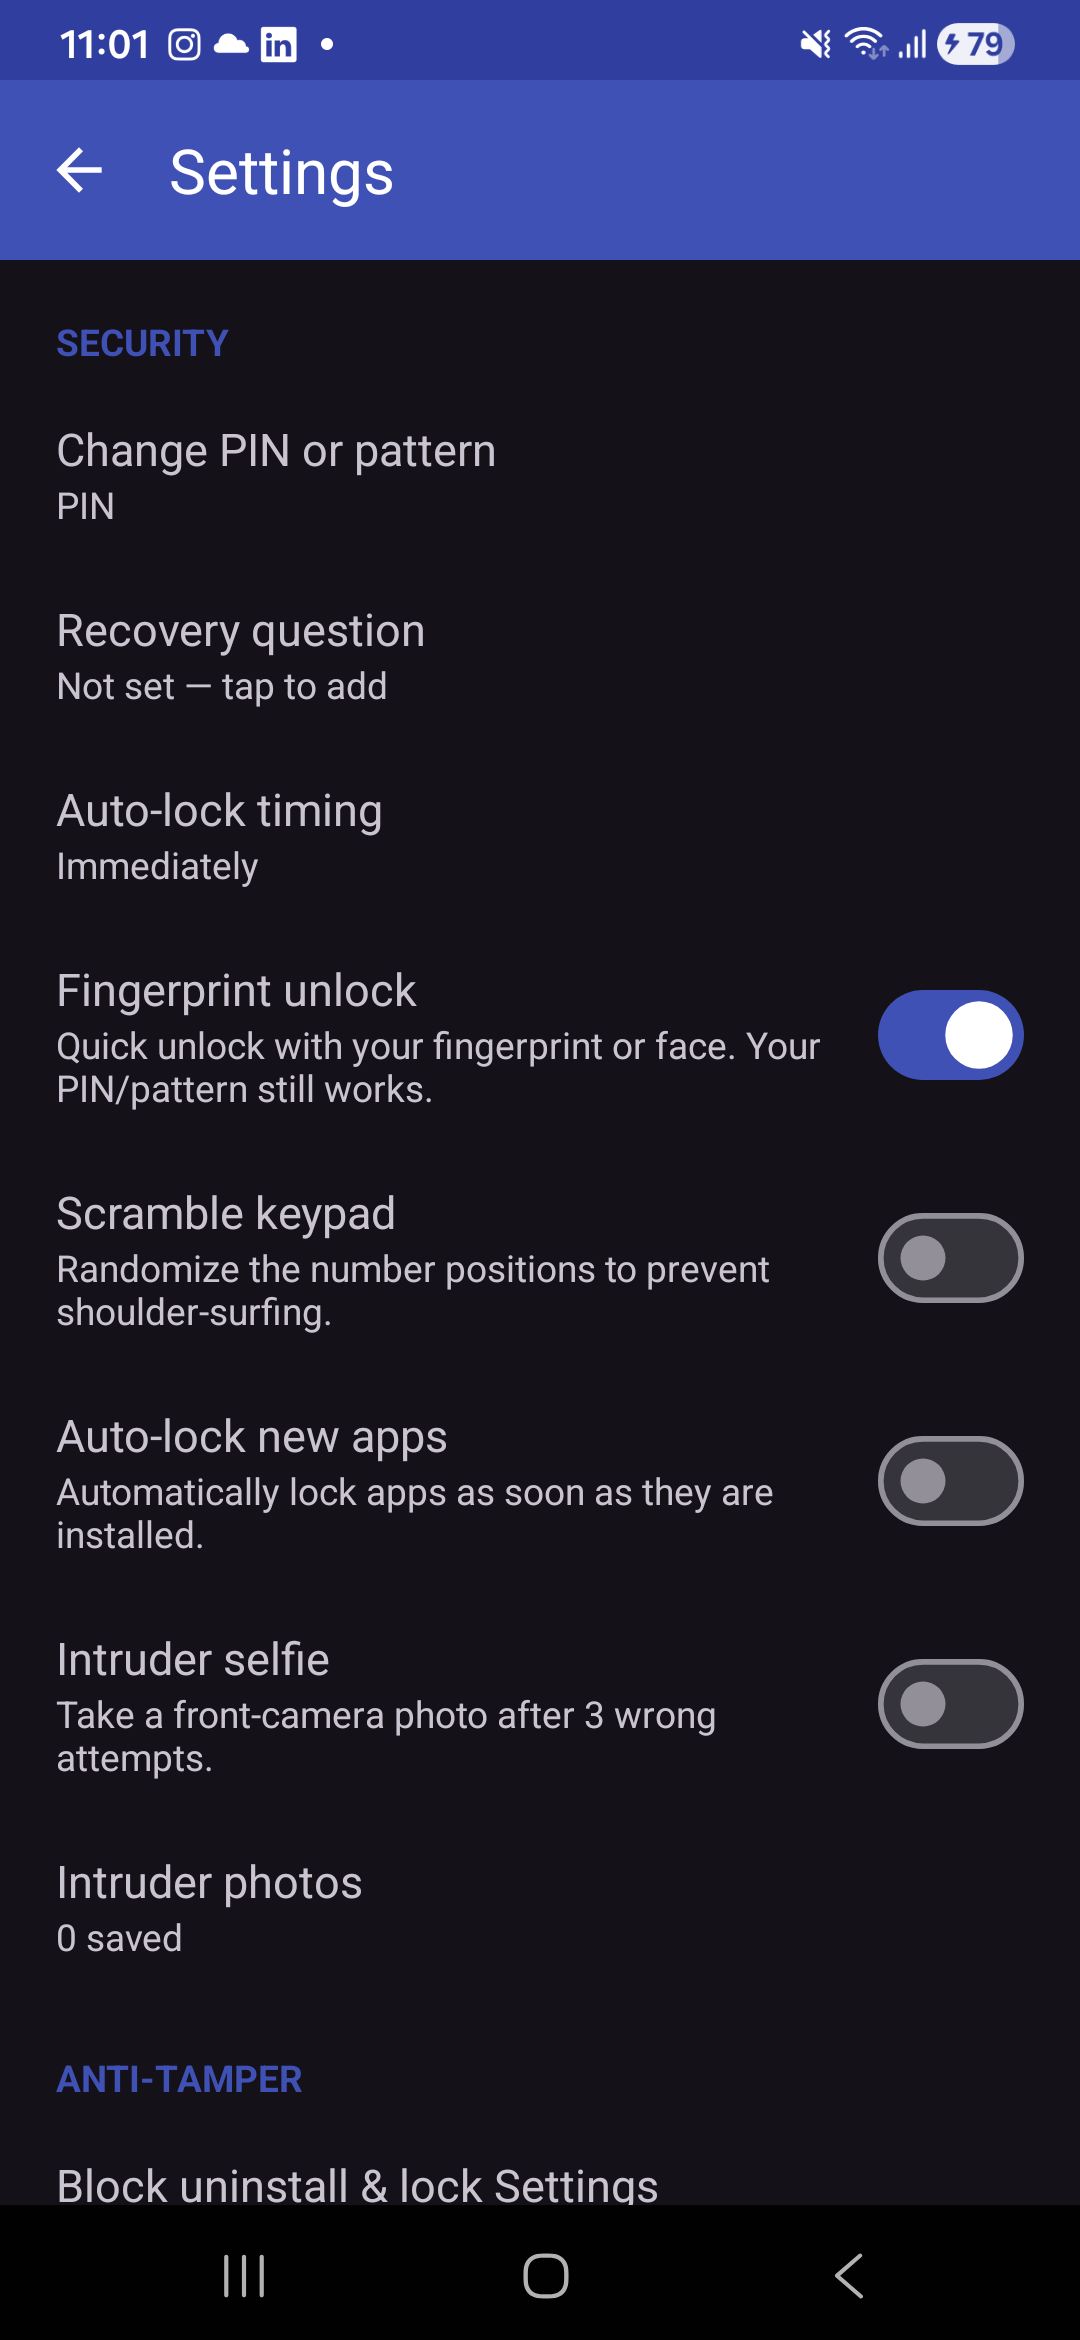
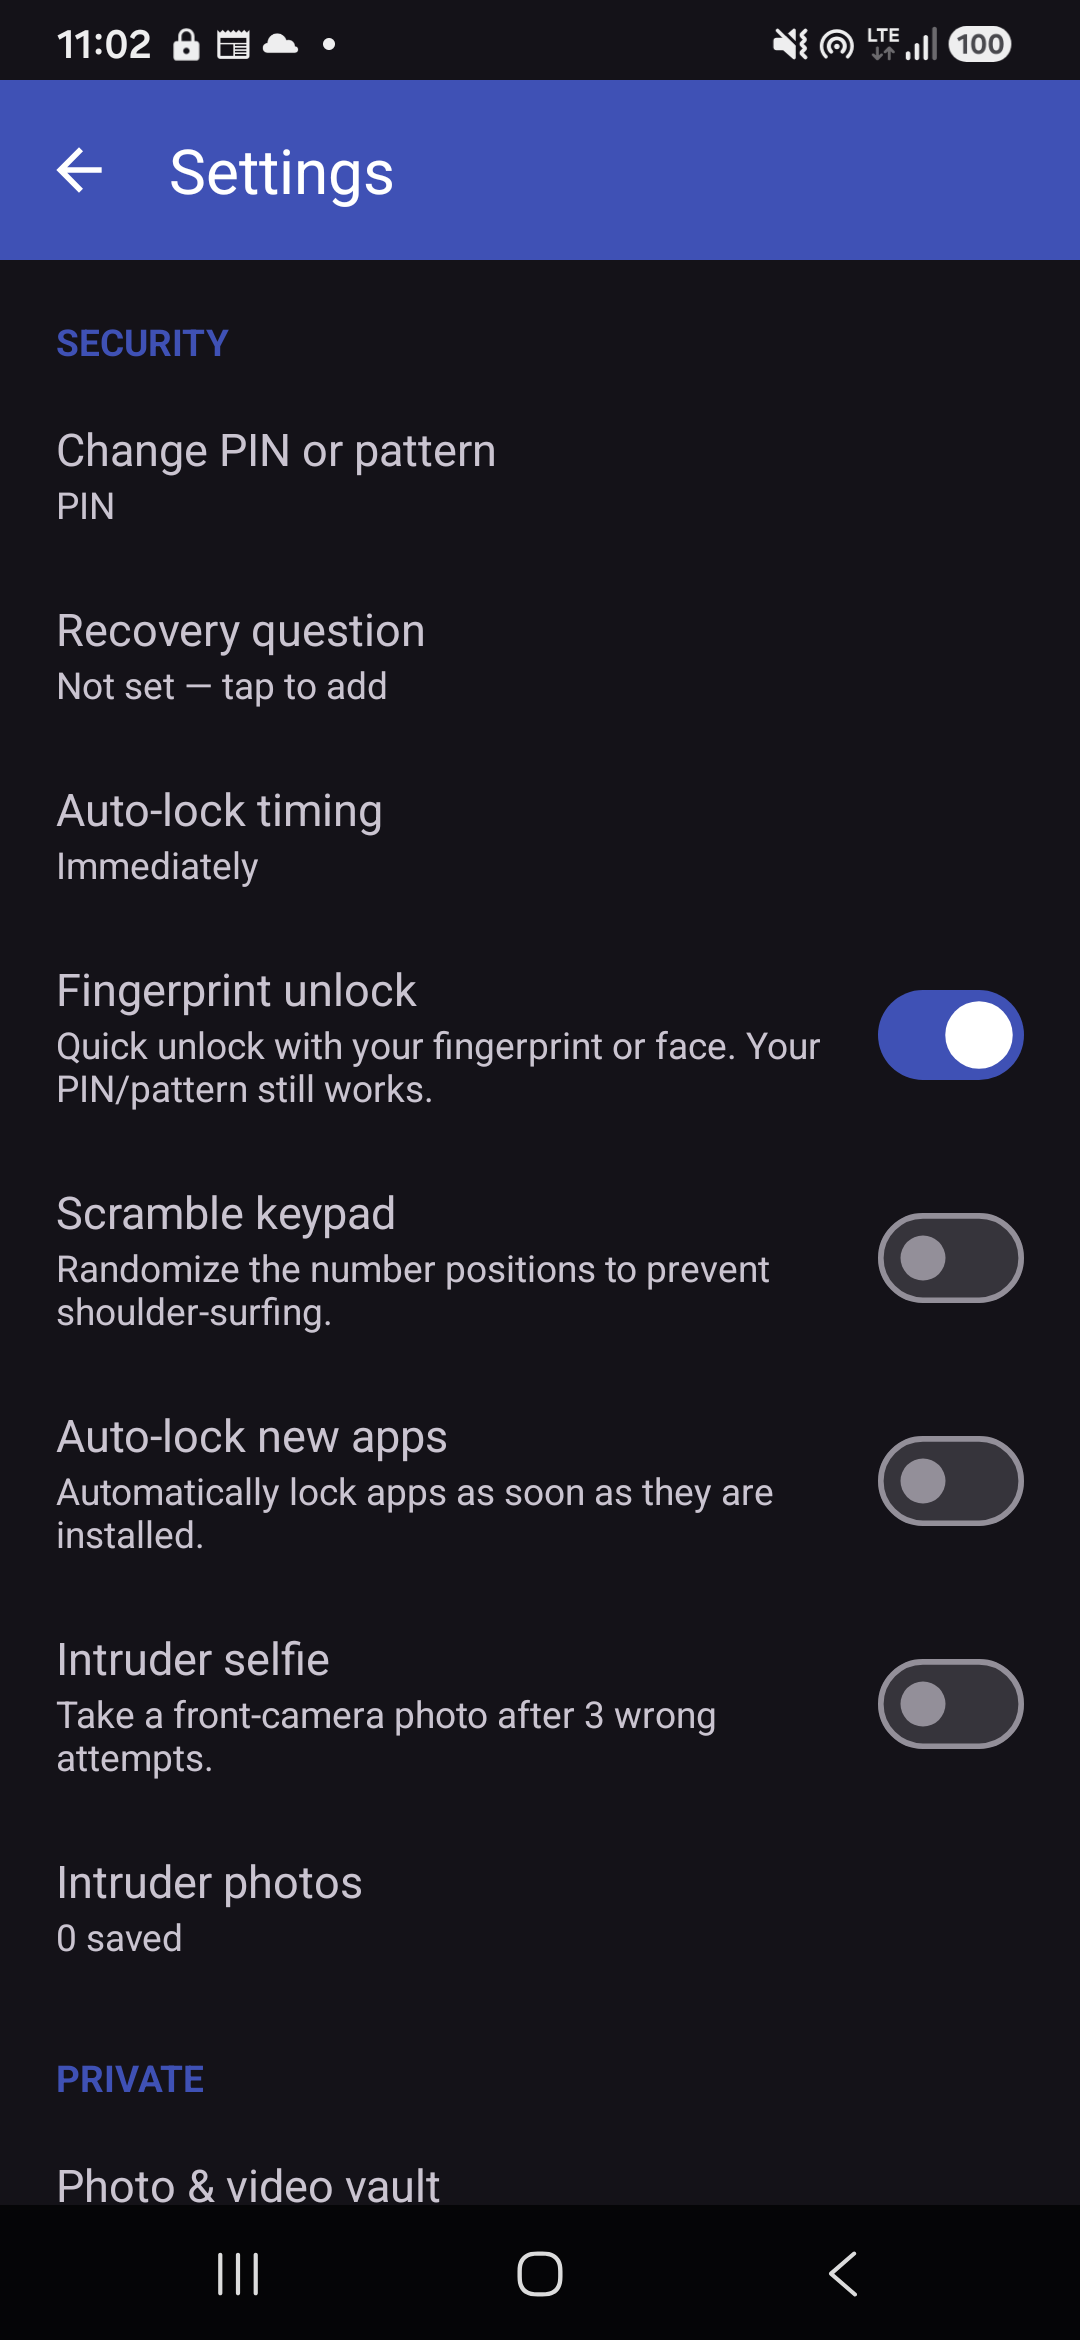
Prepare the 1.1.0 Play release: targetSdk 36, insets, listing, screenshots
Play requires new apps and updates to target API 36 (Android 16) from 31 Aug 2026,
so compileSdk and targetSdk move to 36 and the version becomes 1.1.0 (code 3).

That bump is not a formality. Android 16 ignores
windowOptOutEdgeToEdgeEnforcement for apps targeting 36, which is how this app was
keeping clear of the system bars, so the window is now drawn edge to edge whether
we ask for it or not: on a Galaxy A15 the bottom of the lock screen — "Use
fingerprint" and "Forgot?" — sat underneath the navigation bar. Insets are applied
in code instead, from one place in LockApp so every screen gets them, padding the
content view so the window background still runs edge to edge behind the bars.

Found in the same screenshot: the protected app's icon rendered as a solid white
blob, because the layout tints the padlock placeholder white and that tint stayed
applied when the real icon was loaded. The tint is now cleared for app icons and
set explicitly for the placeholder.

Store material refreshed for 1.1.0: full description covering the features that
have shipped since the listing was written (vault, intruder selfie, disguise, fake
cover, schedule, 4-8 digit PINs, lockout, Recents lock), a What's new entry, data
safety answers backed by the app having no INTERNET permission, the Play Console
permission declarations, and five re-shot screenshots plus a new one of the lock
screen over a protected app.

RELEASE.md gains the version table and the procedure for capturing screenshots of
[…]

diff --git a/app/src/main/java/com/amerganim/lockapp/LockScreenActivity.kt b/app/src/main/java/com/amerganim/lockapp/LockScreenActivity.kt
@@ -1,6 +1,7 @@
 package com.amerganim.lockapp
 
 import android.content.Intent
+import android.content.res.ColorStateList
 import android.os.Bundle
 import android.view.View
 import android.view.WindowManager
@@ -220,21 +221,31 @@ class LockScreenActivity : AppCompatActivity() {
         if (isRecents) {
             // The package here is the launcher, whose name and icon would be misleading.
             binding.appName.setText(R.string.recents_screen)
-            binding.appIcon.setImageResource(R.drawable.ic_lock)
+            showPadlockIcon()
         } else if (isSelf) {
             binding.appName.text = ""
-            binding.appIcon.setImageResource(R.drawable.ic_lock)
+            showPadlockIcon()
         } else {
             val pm = packageManager
             try {
                 val info = pm.getApplicationInfo(targetPackage, 0)
                 binding.appName.text = pm.getApplicationLabel(info)
+                // Drop the white tint the padlock placeholder needs, or the app icon is
+                // painted over into a solid white blob.
+                binding.appIcon.imageTintList = null
                 binding.appIcon.setImageDrawable(pm.getApplicationIcon(info))
             } catch (e: Exception) {
                 binding.appName.text = targetPackage
-                binding.appIcon.setImageResource(R.drawable.ic_lock)
+                showPadlockIcon()
             }
         }
+    }
+
+    private fun showPadlockIcon() {
+        binding.appIcon.imageTintList = ColorStateList.valueOf(
+            ContextCompat.getColor(this, R.color.white)
+        )
+        binding.appIcon.setImageResource(R.drawable.ic_lock)
     }
 
     private fun verify(value: String) {

diff --git a/app/src/main/java/com/amerganim/lockapp/Insets.kt b/app/src/main/java/com/amerganim/lockapp/Insets.kt
@@ -1,0 +1,28 @@
+package com.amerganim.lockapp
+
+import android.app.Activity
+import android.view.View
+import androidx.core.view.ViewCompat
+import androidx.core.view.WindowInsetsCompat
+
+/**
+ * Keeps content clear of the status bar, navigation bar and display cutout.
+ *
+ * The app used to sidestep this with `windowOptOutEdgeToEdgeEnforcement`, but that
+ * opt-out is ignored from Android 16 for apps targeting SDK 36: the window is drawn
+ * edge to edge whether we ask for it or not. Without this the bottom row of the lock
+ * screen — "Use fingerprint" and "Forgot?" — sits underneath the navigation bar.
+ *
+ * Padding the content view rather than the individual layouts means the window
+ * background still runs edge to edge behind the bars, which is the look Android wants.
+ */
+fun Activity.applySystemBarInsets() {
+    val content = findViewById<View>(android.R.id.content) ?: return
+    ViewCompat.setOnApplyWindowInsetsListener(content) { view, windowInsets ->
+        val bars = windowInsets.getInsets(
+            WindowInsetsCompat.Type.systemBars() or WindowInsetsCompat.Type.displayCutout()
+        )
+        view.setPadding(bars.left, bars.top, bars.right, bars.bottom)
+        WindowInsetsCompat.CONSUMED
+    }
+}

diff --git a/app/src/main/java/com/amerganim/lockapp/LockApp.kt b/app/src/main/java/com/amerganim/lockapp/LockApp.kt
@@ -22,7 +22,8 @@ class LockApp : Application() {
             override fun onActivityStarted(activity: Activity) = LockState.onActivityStarted()
             override fun onActivityStopped(activity: Activity) = LockState.onActivityStopped()
 
-            override fun onActivityCreated(activity: Activity, state: Bundle?) = Unit
+            override fun onActivityCreated(activity: Activity, state: Bundle?) =
+                activity.applySystemBarInsets()
             override fun onActivityResumed(activity: Activity) = Unit
             override fun onActivityPaused(activity: Activity) = Unit
             override fun onActivitySaveInstanceState(activity: Activity, out: Bundle) = Unit

diff --git a/docs/play-store.md b/docs/play-store.md
@@ -1,5 +1,7 @@
 # LockApp — Google Play listing & release notes
 
+Current release: **1.1.0 (versionCode 3)** · `minSdk 26` · `targetSdk 36` (Android 16)
+
 ## Store listing (ASO)
 
 Android ASO is driven mainly by the **title**, **short description**, and
@@ -13,72 +15,145 @@ LockApp: App Lock & Locker
 
 ### Short description (max 80 chars)
 ```
-Lock apps with a PIN, pattern or fingerprint. Simple, private app locker.
+Lock apps with a PIN, pattern or fingerprint. Private app locker, no ads.
 ```
 
 ### Full description (max 4000 chars)
 ```
-LockApp is a simple, private app locker that keeps your apps safe behind a PIN,
-pattern, or fingerprint. Lock WhatsApp, Messenger, your gallery, settings, banking
-apps, or anything else — in just a few taps.
+LockApp is a simple, private app locker that keeps your apps behind a PIN, pattern,
+or fingerprint. Lock WhatsApp, Messenger, your gallery, settings, banking apps, or
+anything else — in a few taps. Everything stays on your phone: no account, no ads,
+no tracking.
 
-Why LockApp?
-• App lock that just works — pick any app and it asks for your PIN or pattern when opened.
-• PIN, pattern, or fingerprint/face unlock — your choice.
-• Forgot your PIN? Reset it safely with a recovery question.
-• 100% private — everything stays on your device. No account, no ads, no tracking.
-• Lightweight and fast.
+WHY LOCKAPP
+• App lock that just works — pick an app and it asks for your PIN when opened.
+• PIN (4 to 8 digits), pattern, or fingerprint/face unlock — your choice.
+• Protection switches on the moment you lock your first app.
+• Forgot your PIN? Reset it safely with your recovery question.
+• No account, no ads, no tracking, no internet permission for your data.
 
-FEATURES
-• Lock any app with a PIN or pattern
-• Fingerprint / face quick unlock
-• Recovery question so you never get locked out
-• Auto-lock timing (immediately, or after a delay)
-• Light and dark themes
-• Optional tamper protection that makes the app harder to uninstall
-• Re-locks automatically when you leave a protected app
+LOCKING
+• Lock any installed app with a PIN or pattern
+• Fingerprint / face quick unlock, with your PIN or pattern always as a fallback
+• Choose when apps re-lock: immediately, or after 10s / 30s / 1 minute
+• Everything re-locks the moment your screen turns off
+• Auto-lock newly installed apps
+• Scheduled pause — switch locking off during a daily time window
+• Protection restarts automatically after you reboot
 
-LockApp is the app locker (AppLock) you can trust: no data ever leaves your phone.
+PRIVATE PHOTO & VIDEO VAULT
+• Move photos and videos out of your gallery and into LockApp
+• Encrypted on your device with AES-256, readable only after you unlock
+• Export anything back to your gallery whenever you want
 
-Note: LockApp uses Usage Access to detect when a locked app is opened and the
-"Display over other apps" permission to show the lock screen. It never collects or
-shares any personal data. See our privacy policy for details.
+CATCH SNOOPERS
+• Intruder selfie — after repeated wrong attempts the front camera quietly takes a
+  photo, saved privately on your phone for you to review
+• Wrong-attempt lockout — guessing gets slower and slower, so a PIN cannot simply
+  be guessed at speed
+• Scrambled keypad option so nobody can read your PIN over your shoulder
+• Lock screen, vault and settings are hidden from screenshots and the app switcher
+
+HIDE THE APP ITSELF
+• Disguise LockApp as a Calculator, Clock or Notes app on your home screen
+• Fake cover — show a fake "app keeps stopping" message over the lock; a secret
+  long-press reveals the real PIN pad
+• Optional: ask for your lock before the Recents screen opens
+
+STOP UNINSTALLS
+• Optional tamper protection locks the Settings app and blocks uninstall until you
+  turn it off with your lock. Off by default, and always your choice.
+
+LockApp is the app locker (AppLock) you can trust: your data never leaves your phone.
+
+Note: LockApp uses Usage Access to detect when a locked app is opened, and the
+"Display over other apps" permission to show the lock screen over it. The camera is
+used only if you switch on intruder selfie. No personal data is collected or shared.
+See our privacy policy for details.
 ```
 
 **Keywords covered:** app lock, app locker, applock, lock apps, fingerprint lock,
-pattern lock, gallery lock, privacy, PIN lock.
+pattern lock, gallery lock, photo vault, privacy, PIN lock, hide apps.
+
+### What's new (max 500 chars) — 1.1.0
+```
+• Fixed a bypass where a locked app could be opened from the app switcher
+• Apps now re-lock as soon as the screen turns off
+• PINs can be 4 to 8 digits
+• Repeated wrong attempts now trigger a cooldown that grows each time
+• LockApp's own screen is hidden from the app switcher
+• New: optionally lock the Recents screen
+• Protection switches on when you lock your first app
+• Updated for Android 16
+```
 
 ### Privacy policy URL
 `https://amerganim.github.io/applock-privacy-policy/privacy.html`
-(Hosted via GitHub Pages from the separate public repo
-[amerganim/applock-privacy-policy](https://github.com/amerganim/applock-privacy-policy) — already live.)
+(GitHub Pages from [amerganim/applock-privacy-policy](https://github.com/amerganim/applock-privacy-policy) — already live.)
 
 ---
 
+## Data safety form
+
+Answer **"No data collected"** and **"No data shared"**. Play defines *collection* as
+data transmitted off the device, and nothing here ever leaves it:
+
+| Thing | Where it lives | Leaves the device? |
+|---|---|---|
+| PIN / pattern / recovery answer | Salted hashes in `EncryptedSharedPreferences` | No |
+| Vault photos & videos | AES-256 `EncryptedFile` in app-private storage | No |
+| Intruder selfies | JPEGs in app-private storage | No |
+| Locked-app list & settings | App-private `SharedPreferences` | No |
+
+The app has **no `INTERNET` permission**, which is the simplest way to back this up if
+review asks. Say *yes* to "data is encrypted in transit" being not applicable, and offer
+the in-app **Delete** controls (vault delete, clear intruder photos, clear app data).
+
+## Permission declarations in Play Console
+
+| Permission | What to say |
+|---|---|
+| `QUERY_ALL_PACKAGES` | **Highest rejection risk — see below.** Justification: a user-facing app locker must list every launchable app so the user can choose which to lock. |
+| `SYSTEM_ALERT_WINDOW` | The lock screen must appear over the protected app the moment it is opened. |
+| Foreground service (`specialUse`) | Watches for a protected app coming to the foreground so the lock prompt can be shown. Subtype string is declared in the manifest. |
+| `PACKAGE_USAGE_STATS` | Granted by the user in system Settings; onboarding explains it before sending them there. |
+| `CAMERA` | Only requested when the user switches on Intruder selfie. |
+| Device admin | Only when the user switches on tamper protection; off by default, disclosed in the setting text and on the system screen. |
+
+> **Before you upload:** Play's permitted uses for `QUERY_ALL_PACKAGES` are a short list
+> (antivirus, file managers, browsers, device search…) and app lockers are not on it, so
+> this is the likeliest reason for a rejection. The app does not actually need it: the
+> list it wants is *launchable apps*, which a `<queries>` element with the
+> `MAIN`/`LAUNCHER` intent already provides, with no declaration form and no broad
+> permission. Switching is a small manifest change and is worth doing before the first
+> submission.
+
 ## Pre-launch checklist
 
-- [x] Real `applicationId` (`com.amerganim.lockapp`) — `com.example.*` is blocked by Play
-- [x] `targetSdk` 35 (Play requirement for new apps)
-- [x] Privacy policy written (`docs/privacy.html`) — enable GitHub Pages to host it (see `RELEASE.md`)
-- [x] **Signed release build** — upload keystore + `release` signing config done;
-      `bundleRelease`/`assembleRelease` produce a signed AAB + APK. See `RELEASE.md`.
-- [x] **CI/CD** — GitHub Actions build + tagged-release workflows (`.github/workflows/`)
-- [ ] **Data safety form**: declare *no data collected, no data shared*.
-- [ ] **Permissions declarations** in Play Console:
-  - `QUERY_ALL_PACKAGES` → justification: *core app-locker functionality requires
-    showing the user every launchable app so they can choose which to lock.*
-  - Foreground service (`specialUse`) → describe the monitoring use.
-  - Prominent in-app disclosure for Usage Access is already shown during onboarding.
-  - Note: the vault's "Remove original after import" uses Android's `MediaStore`
-    delete-request **consent dialog** and needs **no** media permission.
-- [ ] **Device admin**: tamper protection is **off by default and clearly disclosed**.
-      If Play review flags "prevents uninstall," be ready to keep only the
-      Settings-lock (the device-admin part can be removed without affecting the rest).
-- [ ] Content rating questionnaire.
-- [ ] Screenshots (phone) + 512×512 icon + 1024×500 feature graphic.
-- [ ] Target audience & content (not directed at children).
+- [x] Real `applicationId` (`com.amerganim.lockapp`)
+- [x] `targetSdk` 36 — Play requires API 36 for new apps and updates from 31 Aug 2026
+- [x] Version bumped: **1.1.0 / versionCode 3**
+- [x] Privacy policy live
+- [x] Signed release build (upload keystore + `release` signing config) — see `RELEASE.md`
+- [x] CI/CD (GitHub Actions build + tagged release)
+- [x] Phone screenshots refreshed for 1.1.0 (`docs/screenshots/`)
+- [ ] Replace `QUERY_ALL_PACKAGES` with a `<queries>` element (see the note above)
+- [ ] Data safety form (answers above)
+- [ ] Permission declarations (table above)
+- [ ] Content rating questionnaire
+- [ ] Target audience & content — not directed at children
+- [ ] Internal testing track first, then production
 
 ## Assets
-- Phone screenshots: `docs/screenshots/` (welcome, PIN setup, pattern setup, home, settings).
-- Feature graphic (1024×500): `docs/feature-graphic.png`.
-- Store icon (512×512): `docs/play-icon-512.png`.
+
+| Asset | File | Notes |
+|---|---|---|
+| Phone screenshots | `docs/screenshots/01-lock … 06-welcome` | 1080×2340, captured on a Galaxy A15 (Android 16) |
+| Feature graphic (1024×500) | `docs/feature-graphic.png` | |
+| Store icon (512×512) | `docs/play-icon-512.png` | |
+
+**Before uploading the screenshots:** `02-home` and `05-settings` were shot on a real
+phone, so they show that phone's installed apps — other companies' names and icons in
+your listing can draw a trademark complaint, and the list is personal. Consider
+re-shooting those two on a device with a curated set of apps. Screens are `FLAG_SECURE`,
+so `screencap` returns black; `RELEASE.md` has the procedure for capturing them.

diff --git a/docs/RELEASE.md b/docs/RELEASE.md
@@ -41,6 +41,36 @@ Verify the APK signature:
 "$env:LOCALAPPDATA\Android\Sdk\build-tools\36.0.0\apksigner.bat" verify --print-certs app/build/outputs/apk/release/app-release.apk
 ```
 
+## Version numbers
+
+`app/build.gradle.kts` holds `versionCode` / `versionName`. Play rejects an upload whose
+`versionCode` is not higher than the last one, so bump it before every release:
+
+| Release | versionName | versionCode |
+|---|---|---|
+| 1.0.1 | 1.0.1 | 2 |
+| 1.1.0 | 1.1.0 | 3 |
+
+`targetSdk` must stay within Play's annual requirement — API 36 (Android 16) for new
+apps and updates from 31 Aug 2026. Raising it is not a formality: Android 16 ignores
+`windowOptOutEdgeToEdgeEnforcement`, so the app applies window insets itself
+(`Insets.kt`). Re-check the bottom of the lock screen on a device after any bump.
+
+## Capturing store screenshots
+
+Every gated screen sets `FLAG_SECURE`, so `adb exec-out screencap` returns a black
+image and the screens cannot be captured directly. To refresh the store screenshots:
+
+1. Temporarily set `SecureActivity.secureWindow` to `false`, and comment out the
+   `window.setFlags(FLAG_SECURE, …)` line in `LockScreenActivity.onCreate`.
+2. `./gradlew :app:assembleDebug` and install on a device.
+3. Capture: `adb exec-out screencap -p > shot.png`.
+4. **Revert both edits** and reinstall before shipping anything. Check it worked: a
+   screencap of the lock screen must come back black.
+
+Do not commit the temporary edits — they disable the protection that keeps the lock
+screen, vault and settings out of screenshots and the app switcher.
+
 ## Continuous integration
 
 - **`.github/workflows/android-ci.yml`** — on every push/PR to `main`: builds the

diff --git a/README.md b/README.md
@@ -7,7 +7,7 @@ includes an **encrypted photo/video vault**, **intruder selfie**, **app disguise
 and **tamper protection** — everything runs and stays on the device, with no account,
 no ads, and no tracking.
 
-- **Min SDK** 26 (Android 8.0) · **Target/Compile SDK** 35 · 100% Kotlin.
+- **Min SDK** 26 (Android 8.0) · **Target/Compile SDK** 36 (Android 16) · 100% Kotlin.
 - Store listing, ASO keywords, privacy policy, Play assets and the release process
   live in [`docs/`](docs/).
 - Releases (signed AAB + APK) are published automatically — see [CI/CD](#cicd--releases).
